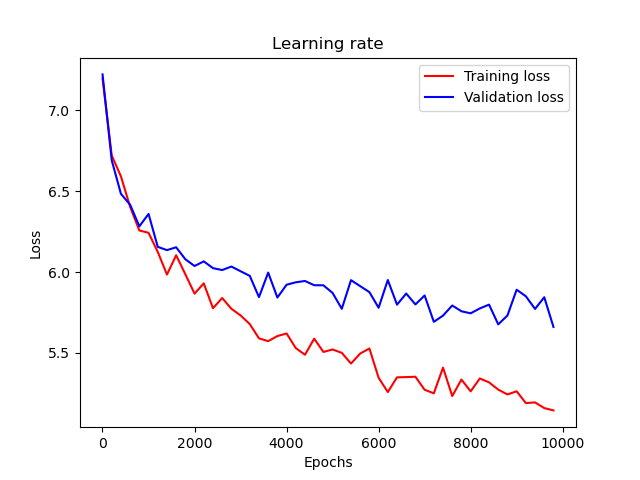
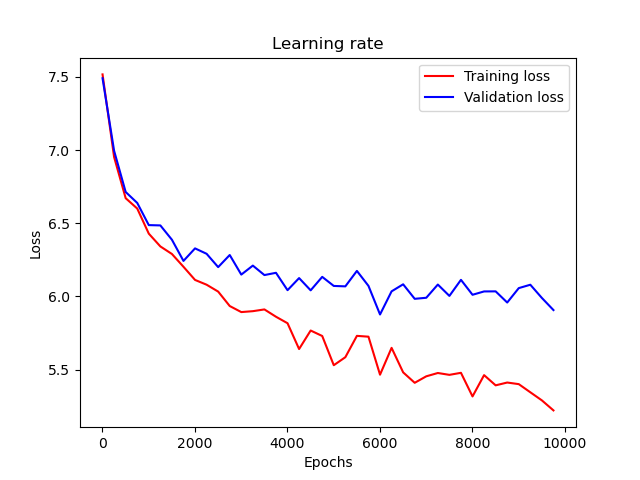
chore: modify parameters

diff --git a/trump_bot/main.py b/trump_bot/main.py
@@ -322,20 +322,20 @@ def main() -> None:
 
 if __name__ == '__main__':
     # Parameters
-    hidden_size = 1000
+    hidden_size = 1500
     num_layers = 3
     dropout = 0.4
-    learning_rate = 0.0005
+    learning_rate = 0.0003
     num_epochs = 10000
     batch_size = 50
-    chunk_size = 30
+    chunk_size = 20
     prime_len = 5
     predict_len = 100
-    temperature = 0.8
+    temperature = 0.7
     clip = 0.25
     random_seed = 1234
-    print_every = 200
-    plot_every = 200
+    print_every = 250
+    plot_every = 250
 
     model_path = os.path.realpath('model/model.pt')
     output_path = os.path.realpath('output/output.txt')
